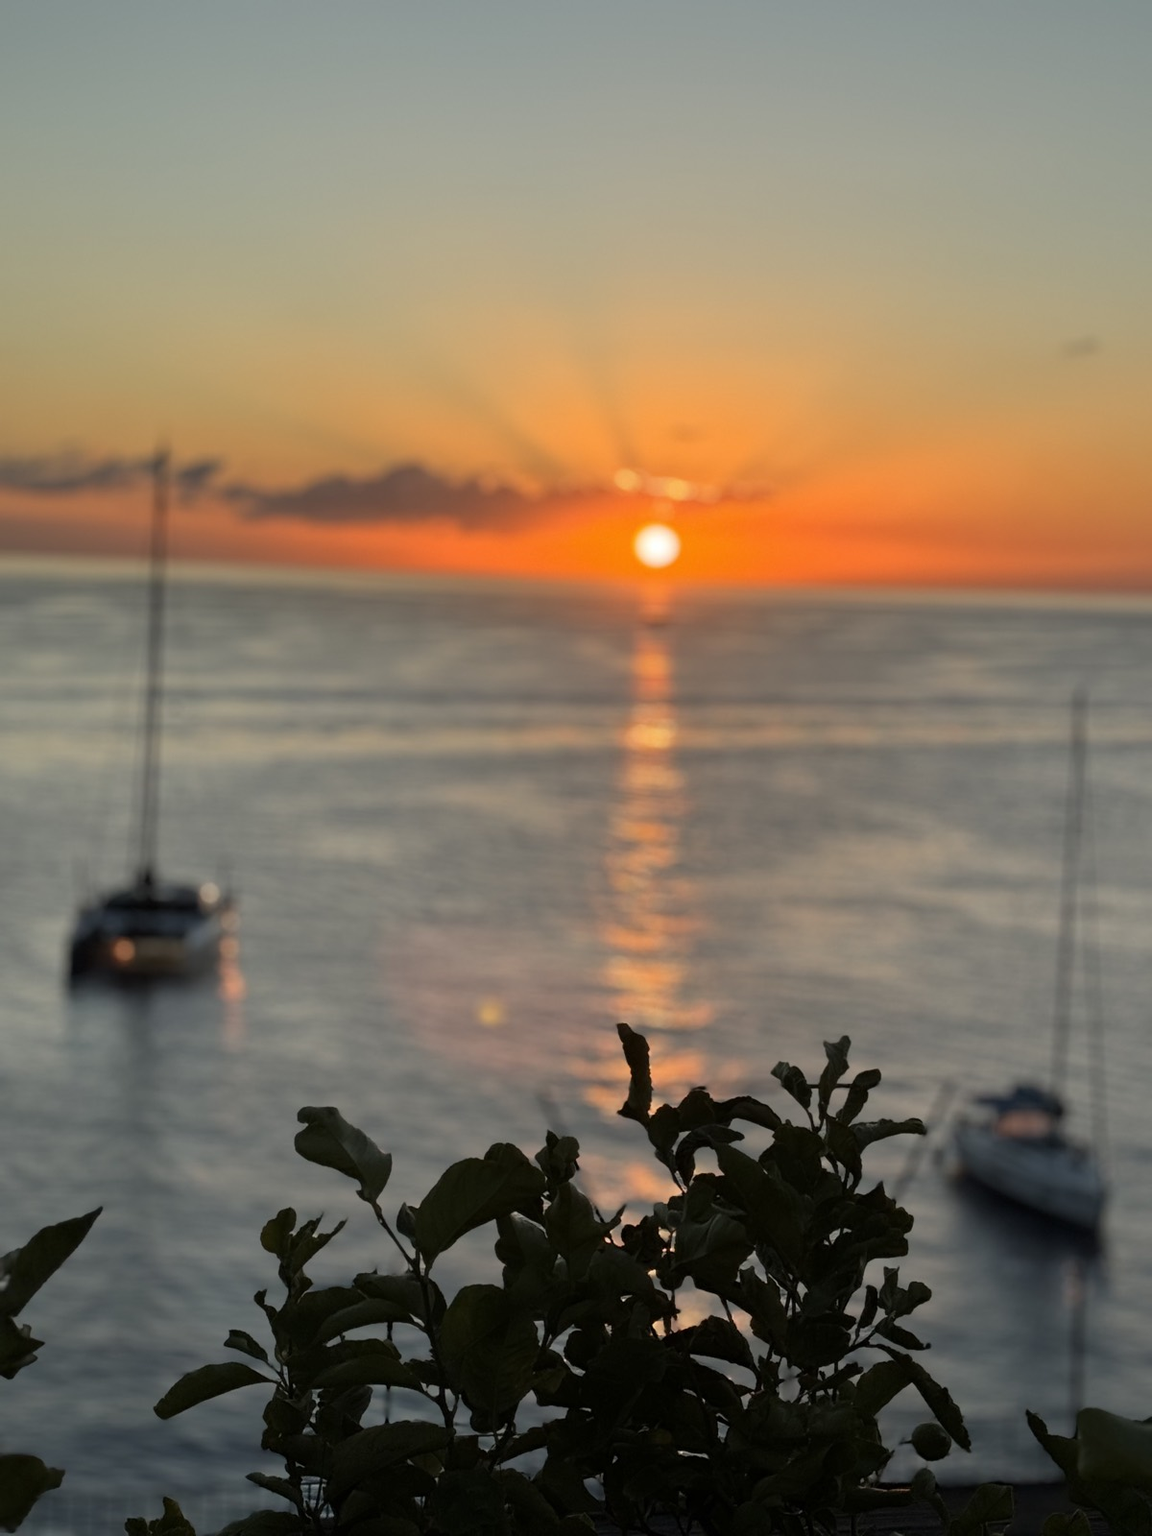
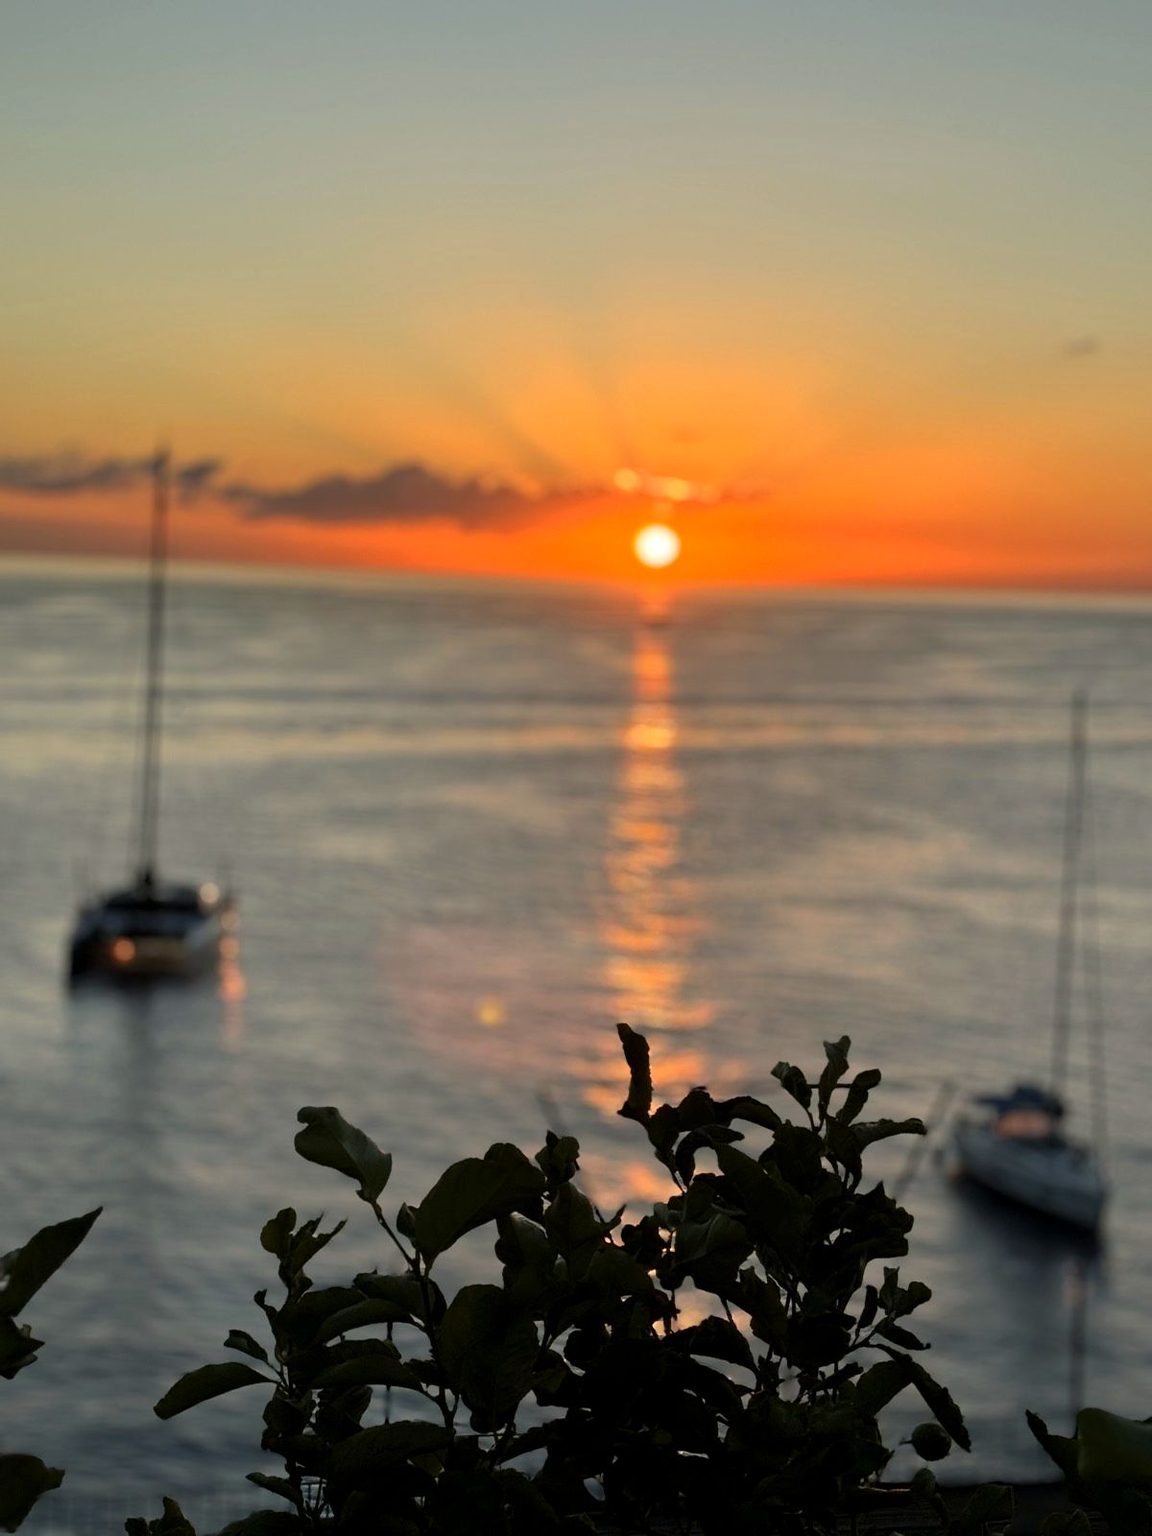
Wellness: hero from Ionian video frame, new curated photos with unified colour grade, menu-day screenshots, @salvadormedia, 300 EUR voucher wording, drop photosession block

diff --git a/wellness-yachting-lipari/index.html b/wellness-yachting-lipari/index.html
@@ -27,7 +27,7 @@
   <meta property="og:type" content="website" />
   <meta property="og:title" content="SERENITY H&amp;W SICILY — Wellness-подорож Ліпарськими островами" />
   <meta property="og:description" content="7 днів на катамарані серед вулканічних островів Сицилії: йога, mindfulness, нутритивне меню, жіноча компанія. 3–10 жовтня 2026." />
-  <meta property="og:image" content="https://serenityyachting.club/assets/wellness/wellness-women-bow.jpg" />
+  <meta property="og:image" content="https://serenityyachting.club/assets/wellness/hero-sunset.jpg" />
   <meta property="og:url" content="https://serenityyachting.club/wellness-yachting-lipari/" />
   <link rel="icon" type="image/svg+xml" href="../assets/serenity-mark.svg" />
   <link rel="preconnect" href="https://fonts.googleapis.com" />
@@ -142,11 +142,11 @@
     .wl-exp__b li::before{content:'·';position:absolute;left:.3rem;color:var(--brass)}
     .wl-exp__dir{font-size:.85rem;color:var(--muted);border-top:1px solid var(--line);padding-top:.9rem}
     .wl-exp__ig{display:inline-block;margin-top:.7rem;font-family:var(--sans);font-size:.8rem;color:var(--brass);text-decoration:none;letter-spacing:.04em}
-    /* food */
-    .wl-food{display:grid;grid-template-columns:repeat(4,1fr);gap:1rem;margin-top:2rem}
-    .wl-food figure{margin:0;overflow:hidden;border-radius:10px;aspect-ratio:1/1;position:relative}
-    .wl-food img{width:100%;height:100%;object-fit:cover;display:block}
-    .wl-food figcaption{position:absolute;left:0;right:0;bottom:0;padding:.7rem .8rem;font-family:var(--sans);font-size:.78rem;color:#fff;background:linear-gradient(to top,rgba(20,32,46,.8),transparent)}
+    /* food → зразок меню на день */
+    .wl-menu__k{text-align:center;margin-top:2rem;font-family:var(--sans);font-size:.74rem;letter-spacing:.22em;text-transform:uppercase;color:var(--brass)}
+    .wl-menu{display:grid;grid-template-columns:repeat(4,1fr);gap:1rem;margin-top:1.2rem}
+    .wl-menu figure{margin:0;border:1px solid var(--line);border-radius:12px;overflow:hidden;background:#fff}
+    .wl-menu img{width:100%;height:auto;display:block}
     /* yachting experience / life on board */
     .wl-why__lead{max-width:760px;margin:1.2rem auto 0;text-align:center;color:var(--muted);line-height:1.55}
     .wl-why__lead b{color:var(--navy);font-weight:500}
@@ -196,13 +196,6 @@
     .wl-tag .big{font-family:var(--serif);font-size:clamp(3rem,7vw,4.4rem);line-height:1;color:var(--brass)}
     .wl-tag .per{font-family:var(--sans);color:var(--muted);letter-spacing:.06em}
     .wl-eb-line{font-family:var(--sans);font-size:.92rem;letter-spacing:.08em;text-transform:uppercase;color:#8a6d3f;margin-bottom:1.4rem}
-    /* photosession */
-    .wl-photo{position:relative;max-width:var(--wrap);margin:0 auto;border-radius:16px;overflow:hidden;min-height:340px;display:flex;align-items:center}
-    .wl-photo img{position:absolute;inset:0;width:100%;height:100%;object-fit:cover}
-    .wl-photo__v{position:absolute;inset:0;background:linear-gradient(90deg,rgba(20,32,46,.82),rgba(20,32,46,.35))}
-    .wl-photo__c{position:relative;padding:2.6rem 2.4rem;max-width:620px;color:var(--ivory)}
-    .wl-photo__c .k{color:var(--brass-2);font-family:var(--sans);letter-spacing:.2em;text-transform:uppercase;font-size:.78rem;margin-bottom:.8rem}
-    .wl-photo__c h2{font-family:var(--serif);font-size:clamp(1.8rem,4vw,2.6rem);line-height:1.15;margin-bottom:1rem}
     /* final */
     .wl-final{position:relative;min-height:78vh;display:flex;align-items:center;justify-content:center;text-align:center;color:var(--ivory)}
     .wl-final__bg{position:absolute;inset:0;background-size:cover;background-position:center}
@@ -294,6 +287,8 @@
       .wl-strip__track{grid-auto-columns:74%;gap:.7rem}
       .wl-strip figcaption{font-size:.7rem}
 
+      .wl-menu{grid-template-columns:1fr 1fr;gap:.7rem;margin-top:1rem}
+
       /* ── mindfulness ── */
       .wl-mind__in{padding:2.6rem 1.15rem}
       .wl-mind__grid{gap:.8rem;margin-top:1.6rem}
@@ -307,9 +302,6 @@
       .wl-two__c{padding:1.2rem 1.2rem}
 
       /* ── фотосесія та фінал ── */
-      .wl-photo{min-height:0}
-      .wl-photo__c{padding:1.9rem 1.2rem;max-width:100%}
-      .wl-photo__v{background:linear-gradient(180deg,rgba(20,32,46,.55),rgba(20,32,46,.88))}
       .wl-final{min-height:auto;padding:3rem 0}
       .wl-final__c{padding:2.4rem 1.15rem}
 
@@ -332,7 +324,7 @@
     }
     /* ── легші фонові зображення для мобільного інтернету ── */
     @media(max-width:820px){
-      .geohero__media{background-image:url('../assets/wellness/wellness-women-bow-m.jpg')!important}
+      .geohero__media{background-image:url('../assets/wellness/hero-sunset-m.jpg')!important}
       .wl-imap__bg{background-image:url('../assets/wellness/sat-bg-m.jpg')}
       .wl-final__bg{background-image:url('../assets/wellness/wellness-sunset2-m.jpg')!important}
     }
@@ -363,11 +355,11 @@
 
   <!-- ░░ 1. HERO ░░ -->
   <section class="geohero">
-    <div class="geohero__media" style="background-image:url('../assets/wellness/wellness-women-bow.jpg')"></div>
+    <div class="geohero__media" style="background-image:url('../assets/wellness/hero-sunset.jpg');background-position:center 32%"></div>
     <div class="geohero__veil"></div>
     <div class="geohero__content">
       <h1>SERENITY H&amp;W SICILY</h1>
-      <p class="wl-hero__meta">3–10 жовтня 2026 · Сицилія та Ліпарські острови</p>
+      <p class="wl-hero__meta"><span style="white-space:nowrap">3–10 жовтня 2026</span> · <span style="white-space:nowrap">Сицилія та Ліпарські острови</span></p>
       <p class="wl-hero__sub">Wellness-канікули для дорослих дівчат</p>
       <p class="geohero__lead">7 днів на катамарані серед вулканічних островів Сицилії, де ми поєднаємо море, жіночу компанію, yoga &amp; mindfulness, Health&nbsp;&amp;&nbsp;Wellness, авторське нутритивне середземноморське меню та достатньо вільного часу, щоб просто жити своє красиве італійське життя.</p>
       <div class="wl-tags">
@@ -386,15 +378,15 @@
     <h2 class="section-title" style="text-align:center">Один день — три настрої</h2>
     <div class="wl-format">
       <article class="wl-card">
-        <div class="wl-card__img"><img src="../assets/wellness/wellness-yoga2.jpg" alt="Світанкова йога на палубі катамарана" loading="lazy"  srcset="../assets/wellness/wellness-yoga2-m.jpg 820w, ../assets/wellness/wellness-yoga2.jpg 1400w" sizes="(max-width:600px) 100vw, 33vw" decoding="async" /></div>
+        <div class="wl-card__img"><img src="../assets/wellness/rhythm-yoga.jpg" srcset="../assets/wellness/rhythm-yoga-m.jpg 820w, ../assets/wellness/rhythm-yoga.jpg 1400w" sizes="(max-width:600px) 100vw, 33vw" alt="Йога на світанку з видом на море" loading="lazy" decoding="async" /></div>
         <div class="wl-card__body"><p class="k">Світанок</p><h3>Йога на світанку</h3><p>Щоранку — м'яка практика в новому мальовничому місці: рух, дихання й тиша, поки море ще спить.</p></div>
       </article>
       <article class="wl-card">
-        <div class="wl-card__img"><img src="../assets/wellness/wellness-turquoise.jpg" alt="Бірюзова бухта Ліпарських островів" loading="lazy"  srcset="../assets/wellness/wellness-turquoise-m.jpg 820w, ../assets/wellness/wellness-turquoise.jpg 1400w" sizes="(max-width:600px) 100vw, 33vw" decoding="async" /></div>
+        <div class="wl-card__img"><img src="../assets/wellness/rhythm-sea.jpg" srcset="../assets/wellness/rhythm-sea-m.jpg 820w, ../assets/wellness/rhythm-sea.jpg 1400w" sizes="(max-width:600px) 100vw, 33vw" alt="Бухта з катамараном серед островів" loading="lazy" decoding="async" /></div>
         <div class="wl-card__body"><p class="k">День</p><h3>Море та острови</h3><p>Бухти, нові острови, SUP, сонце й довгі обіди. Купання просто з катамарана й новий краєвид щодня.</p></div>
       </article>
       <article class="wl-card">
-        <div class="wl-card__img"><img src="../assets/wellness/wellness-sunset.jpg" alt="Захід сонця на палубі катамарана" loading="lazy"  srcset="../assets/wellness/wellness-sunset-m.jpg 820w, ../assets/wellness/wellness-sunset.jpg 1400w" sizes="(max-width:600px) 100vw, 33vw" decoding="async" /></div>
+        <div class="wl-card__img"><img src="../assets/wellness/rhythm-evening.jpg" srcset="../assets/wellness/rhythm-evening-m.jpg 820w, ../assets/wellness/rhythm-evening.jpg 1400w" sizes="(max-width:600px) 100vw, 33vw" alt="Золотий захід сонця над морем" loading="lazy" decoding="async" /></div>
         <div class="wl-card__body"><p class="k">Вечір</p><h3>Тиша та практики</h3><p>Ресторани, yoga nidra, sound healing, чайна церемонія, жіночі кола — або просто захід сонця на палубі.</p></div>
       </article>
     </div>
@@ -412,12 +404,12 @@
         <ul>
           <li>персональна консультація нутриціолога</li>
           <li>індивідуальна практика з йога-тічеркою</li>
-          <li>ваучер на суму 300 €</li>
+          <li>ваучер на суму 300 € на наступну яхтову подорож</li>
         </ul>
         <a href="#book" class="btn btn--gold">Забрати early booking →</a>
       </div>
       <div class="wl-eb__bonus">
-        <img src="../assets/wellness/wellness-white2.jpg" alt="Персональна фотосесія на Ліпарських островах" loading="lazy"  srcset="../assets/wellness/wellness-white2-m.jpg 820w, ../assets/wellness/wellness-white2.jpg 1400w" sizes="(max-width:600px) 100vw, 33vw" decoding="async" />
+        <img src="../assets/wellness/bonus-camera.jpg" srcset="../assets/wellness/bonus-camera-m.jpg 820w, ../assets/wellness/bonus-camera.jpg 1200w" sizes="(max-width:900px) 100vw, 30vw" alt="Фотоапарат на штативі на тлі заходу сонця над морем" loading="lazy" decoding="async" />
         <p>Додатковий WOW-бонус: серед усіх учасниць <b>SERENITY H&amp;W SICILY</b> ми розіграємо персональну фотосесію на одному з Ліпарських островів.</p>
       </div>
     </div>
@@ -507,12 +499,12 @@
 
     <div class="wl-strip">
       <h3>Подивись, де ти житимеш наступні сім днів</h3>
-      <div class="wl-strip__track">
-        <figure><img src="../assets/wellness/wellness-women-bow.jpg" srcset="../assets/wellness/wellness-women-bow-m.jpg 820w, ../assets/wellness/wellness-women-bow.jpg 1400w" sizes="(max-width:600px) 80vw, 26vw" alt="Ніс катамарана — місце для засмаги" loading="lazy" decoding="async" /><figcaption>Місце для засмаги</figcaption></figure>
-        <figure><img src="../assets/wellness/wellness-turquoise.jpg" srcset="../assets/wellness/wellness-turquoise-m.jpg 820w, ../assets/wellness/wellness-turquoise.jpg 1400w" sizes="(max-width:600px) 80vw, 26vw" alt="Бірюзова бухта біля борту" loading="lazy" decoding="async" /><figcaption>Море за два кроки</figcaption></figure>
-        <figure><img src="../assets/wellness/food2.jpg" srcset="../assets/wellness/food2-m.jpg 820w, ../assets/wellness/food2.jpg 1400w" sizes="(max-width:600px) 80vw, 26vw" alt="Сніданок із видом на море" loading="lazy" decoding="async" /><figcaption>Сніданки з видом</figcaption></figure>
-        <figure><img src="../assets/wellness/cove-pines.jpg" srcset="../assets/wellness/cove-pines-m.jpg 820w, ../assets/wellness/cove-pines.jpg 1400w" sizes="(max-width:600px) 80vw, 26vw" alt="Тиха бухта в соснах" loading="lazy" decoding="async" /><figcaption>Місце для тиші</figcaption></figure>
-        <figure><img src="../assets/wellness/wellness-sunset.jpg" srcset="../assets/wellness/wellness-sunset-m.jpg 820w, ../assets/wellness/wellness-sunset.jpg 1400w" sizes="(max-width:600px) 80vw, 26vw" alt="Вечір на палубі катамарана" loading="lazy" decoding="async" /><figcaption>Вечори на борту</figcaption></figure>
+            <div class="wl-strip__track">
+        <figure><img src="../assets/wellness/strip-sun.jpg" srcset="../assets/wellness/strip-sun-m.jpg 820w, ../assets/wellness/strip-sun.jpg 1400w" sizes="(max-width:600px) 80vw, 26vw" alt="Дівчина на носі катамарана" loading="lazy" decoding="async" /><figcaption>Місце для засмаги</figcaption></figure>
+        <figure><img src="../assets/wellness/strip-water.jpg" srcset="../assets/wellness/strip-water-m.jpg 820w, ../assets/wellness/strip-water.jpg 1400w" sizes="(max-width:600px) 80vw, 26vw" alt="Рука в бірюзовій воді біля борту" loading="lazy" decoding="async" /><figcaption>Море за два кроки</figcaption></figure>
+        <figure><img src="../assets/wellness/strip-breakfast.jpg" srcset="../assets/wellness/strip-breakfast-m.jpg 820w, ../assets/wellness/strip-breakfast.jpg 1400w" sizes="(max-width:600px) 80vw, 26vw" alt="Сніданок із круасаном на борту" loading="lazy" decoding="async" /><figcaption>Сніданки з видом</figcaption></figure>
+        <figure><img src="../assets/wellness/strip-quiet.jpg" srcset="../assets/wellness/strip-quiet-m.jpg 820w, ../assets/wellness/strip-quiet.jpg 1400w" sizes="(max-width:600px) 80vw, 26vw" alt="Книга й кава на палубі" loading="lazy" decoding="async" /><figcaption>Місце для тиші</figcaption></figure>
+        <figure><img src="../assets/wellness/strip-evening.jpg" srcset="../assets/wellness/strip-evening-m.jpg 820w, ../assets/wellness/strip-evening.jpg 1400w" sizes="(max-width:600px) 80vw, 26vw" alt="Вечір на палубі катамарана" loading="lazy" decoding="async" /><figcaption>Вечори на борту</figcaption></figure>
       </div>
     </div>
   </section>
@@ -570,7 +562,8 @@
         <div class="wl-exp__ph"><img src="../assets/wellness/exp-mykola.jpg" alt="Микола Кучугурний — капітан" loading="lazy" /></div>
         <div class="wl-exp__b"><h3>Микола Кучугурний</h3><p class="wl-exp__role">Sea · safety · route · yacht</p>
         <ul><li>10+ років досвіду в організації яхтових подорожей</li><li>50+ проведених яхтових турів</li><li>500+ гостей</li></ul>
-        <p class="wl-exp__dir">Відповідає за море, маршрут і безпеку.</p></div>
+        <p class="wl-exp__dir">Відповідає за море, маршрут і безпеку.</p>
+        <a class="wl-exp__ig" href="https://www.instagram.com/salvadormedia" target="_blank" rel="noopener">@salvadormedia</a></div>
       </article>
     </div>
   </section>
@@ -580,11 +573,12 @@
     <p class="kicker" style="text-align:center">Food experience</p>
     <h2 class="section-title" style="text-align:center">Меню створює нутриціолог. Готує кок.<br />Ти — відпочиваєш.</h2>
     <p class="geosec__lead" style="text-align:center;max-width:820px;margin-left:auto;margin-right:auto">На кожному катамарані — свій кок. Гості не готують і не чергують на кухні. Можна разом піти на локальний ринок, вибрати сицилійські томати, фрукти чи свіжу рибу — але далі готує команда. <b>Healthy тут не означає голодно, прісно або «без пасти, бо ми на wellness».</b></p>
-    <div class="wl-food">
-      <figure><img src="../assets/wellness/food2.jpg" alt="Сніданок на терасі біля моря" loading="lazy"  srcset="../assets/wellness/food2-m.jpg 820w, ../assets/wellness/food2.jpg 1400w" sizes="(max-width:600px) 100vw, 33vw" decoding="async" /><figcaption>Сніданок біля моря</figcaption></figure>
-      <figure><img src="../assets/wellness/food1.jpg" alt="Здоровий сніданок на катамарані" loading="lazy"  srcset="../assets/wellness/food1-m.jpg 820w, ../assets/wellness/food1.jpg 1400w" sizes="(max-width:600px) 100vw, 33vw" decoding="async" /><figcaption>Сніданок на катамарані</figcaption></figure>
-      <figure><img src="../assets/wellness/wellness-turquoise.jpg" alt="Обід із видом на бухту" loading="lazy"  srcset="../assets/wellness/wellness-turquoise-m.jpg 820w, ../assets/wellness/wellness-turquoise.jpg 1400w" sizes="(max-width:600px) 100vw, 33vw" decoding="async" /><figcaption>Обід із видом на море</figcaption></figure>
-      <figure><img src="../assets/wellness/cove-pines.jpg" alt="Стоянка у бірюзовій бухті" loading="lazy"  srcset="../assets/wellness/cove-pines-m.jpg 820w, ../assets/wellness/cove-pines.jpg 1400w" sizes="(max-width:600px) 100vw, 33vw" decoding="async" /><figcaption>Аперитив у бухті</figcaption></figure>
+    <p class="wl-menu__k">Зразок меню на день · Sicilian Comfort</p>
+    <div class="wl-menu">
+      <figure><img src="../assets/wellness/menu-breakfast.jpg" alt="Меню: сніданок" loading="lazy" decoding="async" /></figure>
+      <figure><img src="../assets/wellness/menu-lunch.jpg" alt="Меню: обід" loading="lazy" decoding="async" /></figure>
+      <figure><img src="../assets/wellness/menu-snack.jpg" alt="Меню: перекус" loading="lazy" decoding="async" /></figure>
+      <figure><img src="../assets/wellness/menu-dinner.jpg" alt="Меню: вечеря" loading="lazy" decoding="async" /></figure>
     </div>
     <p style="text-align:center;margin-top:1.8rem"><a href="#book" class="btn btn--gold">Хочу на сніданок після йоги →</a></p>
   </section>
@@ -673,19 +667,6 @@
     <p style="text-align:center;margin-top:1.8rem"><a href="#book" class="btn btn--gold">Забронювати місце →</a></p>
   </section>
 
-  <!-- ░░ 12. PHOTOSESSION ░░ -->
-  <section class="wl-band">
-    <div class="wl-photo">
-      <img src="../assets/wellness/wellness-white1.jpg" alt="Fashion-travel фотосесія на Сицилії" loading="lazy"  srcset="../assets/wellness/wellness-white1-m.jpg 820w, ../assets/wellness/wellness-white1.jpg 1400w" sizes="(max-width:600px) 100vw, 33vw" decoding="async" />
-      <div class="wl-photo__v"></div>
-      <div class="wl-photo__c">
-        <p class="k">І ще один подарунок від Serenity</p>
-        <h2>Персональна фотосесія на одному з Ліпарських островів</h2>
-        <p style="color:rgba(246,241,231,.85);line-height:1.6;margin-bottom:1.2rem">Серед усіх учасниць H&amp;W Sicily ми розіграємо професійну зйомку у справжньому італійському антуражі.</p>
-        <a href="#book" class="btn btn--gold">Хочу бути там →</a>
-      </div>
-    </div>
-  </section>
 
   <!-- ░░ 13. FAQ ░░ -->
   <section class="faq" id="faq">
